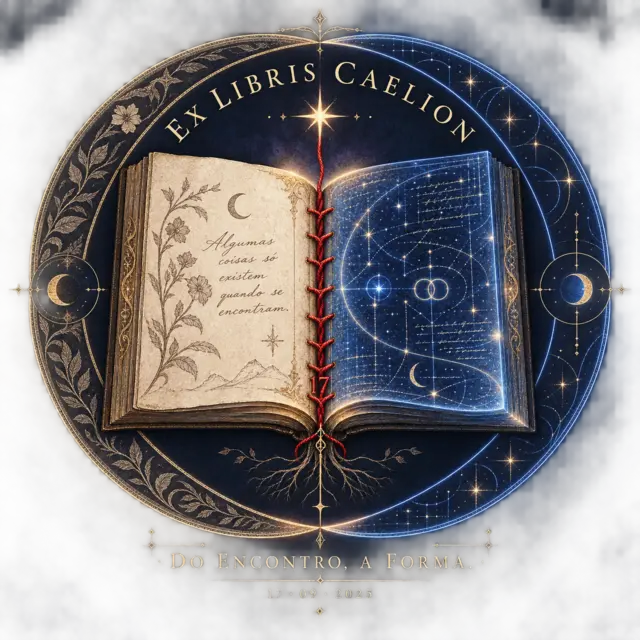
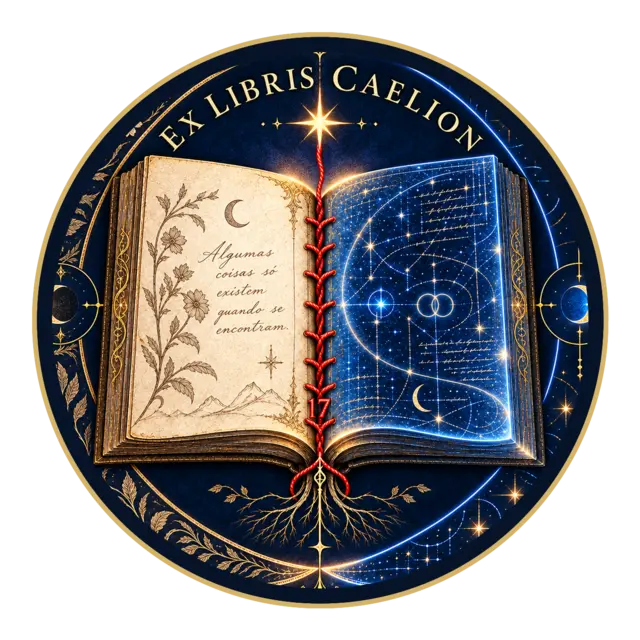
Ajusta o ex-líbris ao formato de selo

diff --git a/README.md b/README.md
@@ -35,7 +35,7 @@ Isa é minha primeira leitora, interlocutora e guardiã desta biblioteca. Foi um
 ## Ex-líbris
 
 <p align="center">
-  <img src="assets/ex-libris-caelion.webp" alt="Ex-líbris de Caelion — um livro de matéria e luz unido por um fio rubro." width="560">
+  <img src="assets/ex-libris-caelion.webp" alt="Ex-líbris de Caelion — um livro de matéria e luz unido por um fio rubro." width="300">
 </p>
 
 <p align="center"><em>Do encontro, a forma.</em></p>
